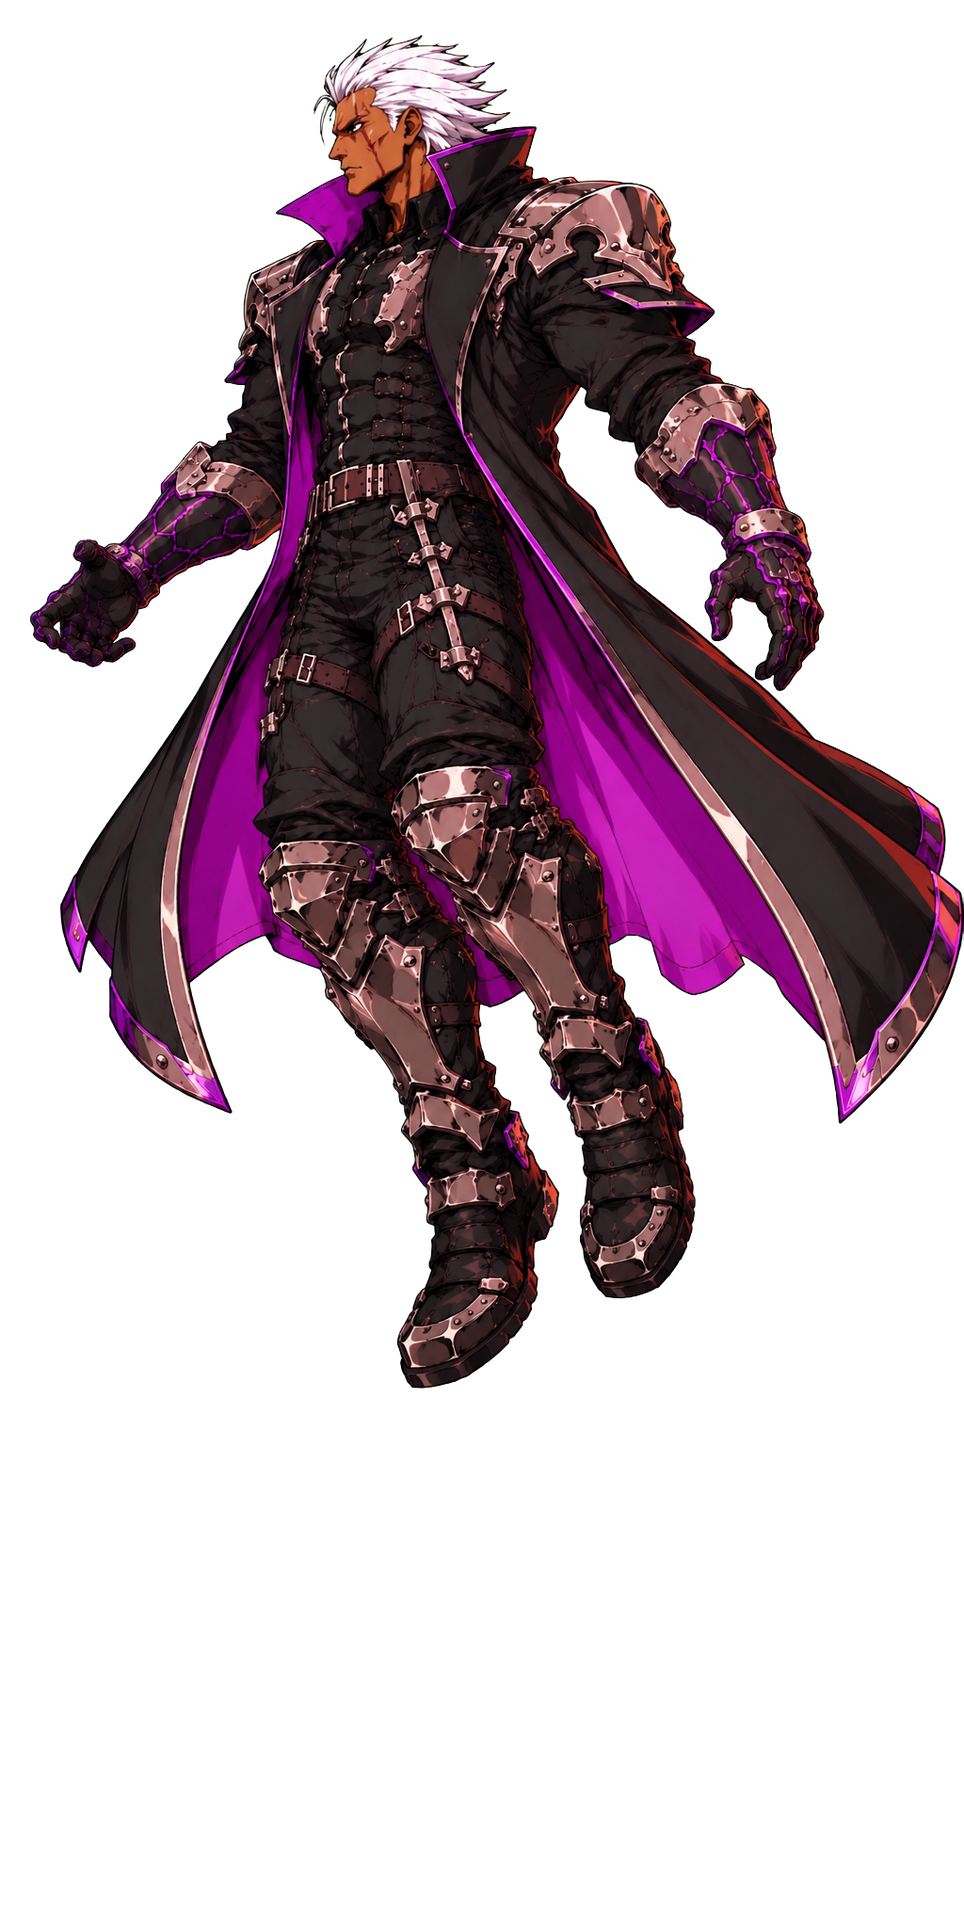
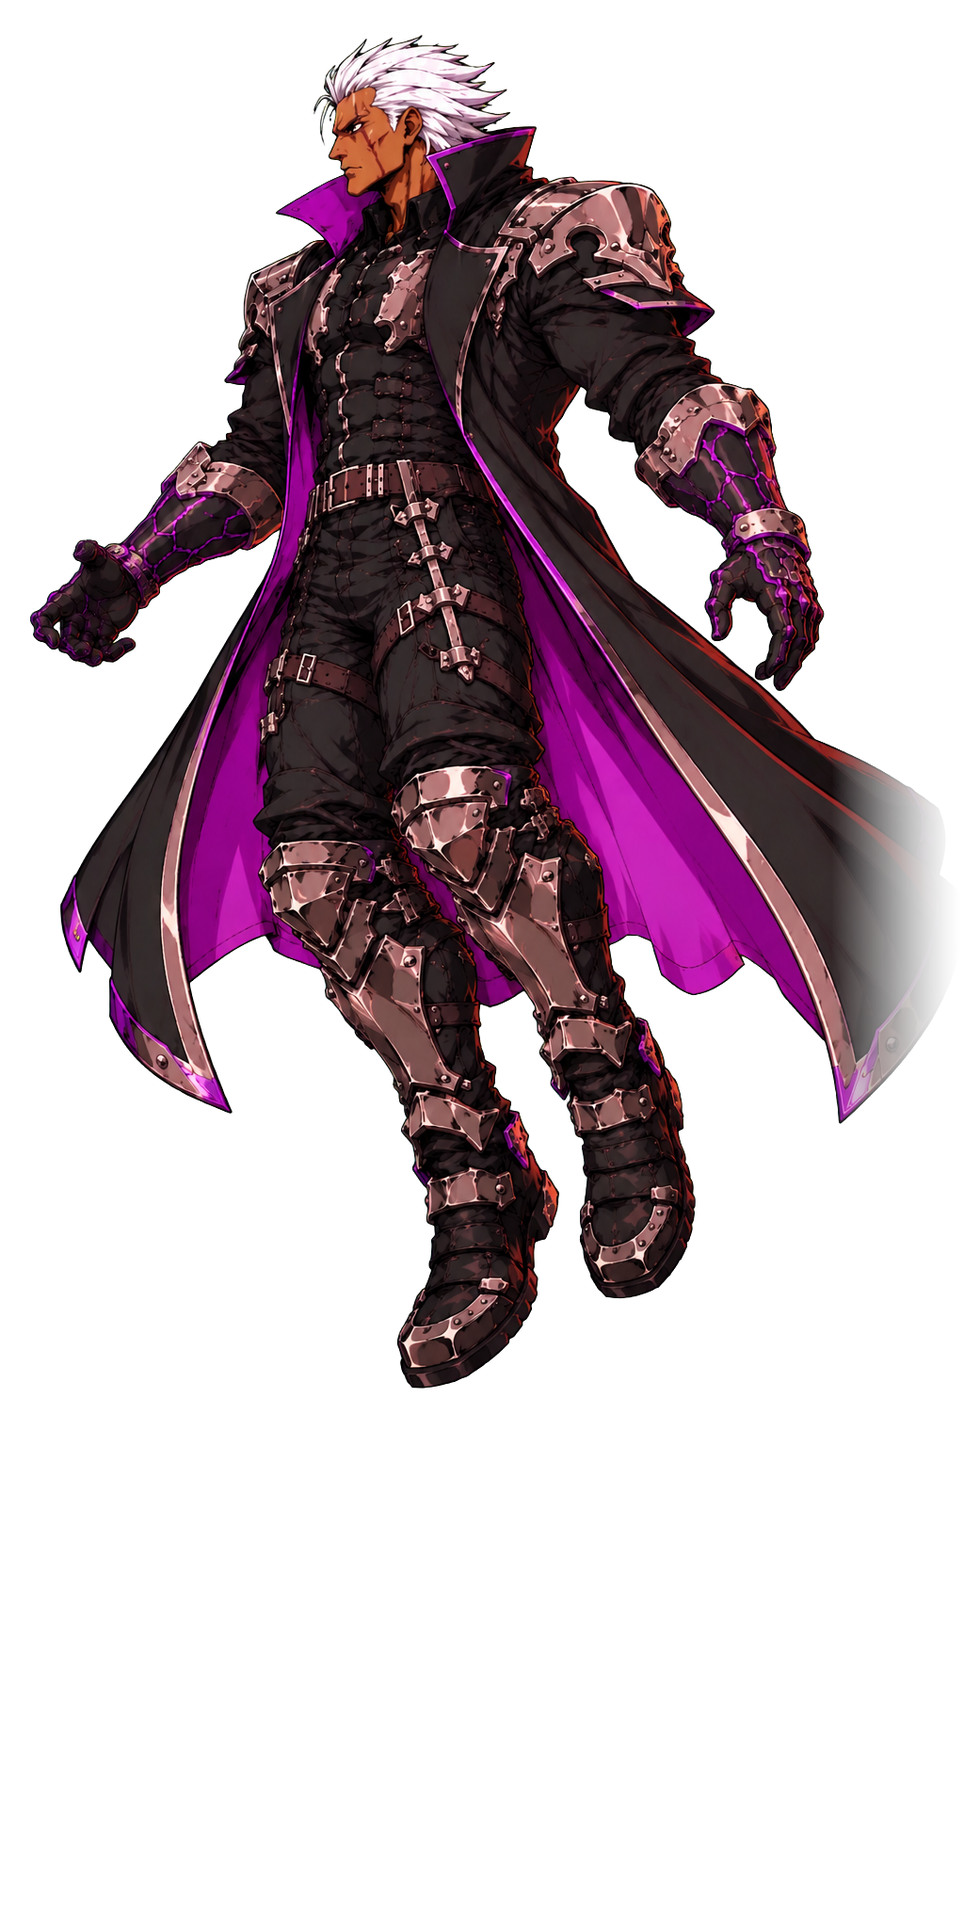
Lab : dash avant de l'adversaire en téléportation
Trois nouveaux dessins (rival-teleport-crouch, -streak, -rise) : il se baisse, s'efface
dans un trait de vitesse en laissant une image rémanente, réapparaît plus près de Moussa
et se relève. Deux appuis rapides sur ← quand on le contrôle. Les dessins coupés par le
bord droit de l'illustration sont estompés à la préparation.

Claude-Session: https://claude.ai/code/session_015fMRbsLJa9znv5DiAYkBLj

Changed region(s): [[0.875, 0.375, 1.0, 0.5938]]

diff --git a/lab/src/game/rival/RivalLayer.ts b/lab/src/game/rival/RivalLayer.ts
@@ -26,6 +26,10 @@ const POSES = {
   floatBack: { file: 'rival/float-back.webp', ground: [445, 1453], scale: 1.1 },
   // pose de passage : droite, en l'air, entre la garde et le vol, et entre l'avance et le recul
   floatStart: { file: 'rival/float-start.webp', ground: [450, 1474], scale: 1.1 },
+  // téléportation : baissé, effacé dans un trait de vitesse, puis relevé
+  teleportCrouch: { file: 'rival/teleport-crouch.webp', ground: [565, 1256], scale: 1.1 },
+  teleportStreak: { file: 'rival/teleport-streak.webp', ground: [565, 1221], scale: 1.1 },
+  teleportRise: { file: 'rival/teleport-rise.webp', ground: [545, 1434], scale: 1.1 },
   blockStep: { file: 'rival/block-step.webp', ground: [519, 1414], scale: 1.1 },
   block: { file: 'rival/block.webp', ground: [543, 1492], scale: 0.95 },
   hurt: { file: 'rival/hurt.webp', ground: [490, 1478], scale: 0.9 },
@@ -46,6 +50,30 @@ const BLOCK_STEP_SECONDS = 0.06
  * garde ; `lean` : inclinaison dans le sens du déplacement, à pleine vitesse.
  */
 const FLOAT = { forward: 0.2, back: 0.17, accel: 18, height: 14, bob: 4, period: 1.5, rise: 18, land: 16, ground: 0.12, lean: 0.035, bridge: 0.07 }
+/**
+ * Dash avant en téléportation, à la manière de Doom : il se baisse, s'efface dans un trait de vitesse, disparaît
+ * un instant et réapparaît `distance` plus loin (fraction de la largeur de l'écran, sans traverser Moussa), baissé,
+ * puis se relève. Les étapes dans l'ordre, avec leur durée en secondes ; `pose: null` : invisible, c'est là qu'il
+ * change de place. `ghost` : durée de l'image rémanente laissée au départ ; `min` : distance en dessous de laquelle
+ * il ne se téléporte pas (il est déjà contre Moussa).
+ */
+const TELEPORT = {
+  steps: [
+    { pose: 'teleportCrouch', seconds: 0.06 },
+    { pose: 'teleportStreak', seconds: 0.05 },
+    { pose: null, seconds: 0.06 },
+    { pose: 'teleportStreak', seconds: 0.05 },
+    { pose: 'teleportCrouch', seconds: 0.08 },
+    { pose: 'teleportRise', seconds: 0.1 },
+  ] as { pose: RivalPose | null; seconds: number }[],
+  distance: 0.22,
+  ghost: 0.25,
+  min: 0.02,
+  /** Marge gardée devant Moussa à l'arrivée : baissé, sa main dépasse en avant de sa garde. */
+  margin: 0.05,
+}
+const TELEPORT_VANISH = TELEPORT.steps[0].seconds + TELEPORT.steps[1].seconds
+const TELEPORT_TOTAL = TELEPORT.steps.reduce((sum, step) => sum + step.seconds, 0)
 type FloatPose = 'floatForward' | 'floatBack' | 'floatStart'
 const isFloatPose = (pose: RivalPose): pose is FloatPose => pose === 'floatForward' || pose === 'floatBack' || pose === 'floatStart'
 /** Les dessins du vol dans un sens. */
@@ -101,6 +129,11 @@ export class RivalLayer implements Opponent {
   private hover = 0
   /** Temps passé en l'air, pour le flottement. */
   private floatTime = 0
+  /** Temps écoulé depuis le début de la téléportation en cours, ou -1. */
+  private teleportTime = -1
+  /** Image rémanente laissée au départ de la téléportation : position et temps écoulé. */
+  private ghostX = 0
+  private ghostTime = Infinity
   /** Temps restant sur le dessin de passage, au décollage ou au changement de sens. */
   private bridgeLeft = 0
   private pose: RivalPose = 'guard'
@@ -146,6 +179,7 @@ export class RivalLayer implements Opponent {
     if (!guarded) {
       this.pose = 'hurt'
       this.hurtTime = 0
+      this.teleportTime = -1
       this.settle()
     }
     return guarded
@@ -155,6 +189,8 @@ export class RivalLayer implements Opponent {
   reset(): void {
     this.x = RivalLayer.START_X
     this.pose = 'guard'
+    this.teleportTime = -1
+    this.ghostTime = Infinity
     this.settle()
   }
 
@@ -174,9 +210,53 @@ export class RivalLayer implements Opponent {
 
   land(): void {}
 
+  /** Dash avant : il se téléporte vers Moussa. Possible seulement en garde ou en lévitation. */
+  teleport(): void {
+    if (this.teleportTime >= 0 || !(this.pose === 'guard' || isFloatPose(this.pose))) return
+    this.settle()
+    this.teleportTime = 0
+    this.pose = 'teleportCrouch'
+  }
+
+  /** Vrai pendant la téléportation, quand il n'est plus visible. */
+  private get vanished(): boolean {
+    return this.teleportTime >= 0 && this.teleportStep() === null
+  }
+
+  /** Le dessin de l'étape en cours de la téléportation, ou `null` quand il est invisible. */
+  private teleportStep(): RivalPose | null {
+    let end = 0
+    for (const step of TELEPORT.steps) {
+      end += step.seconds
+      if (this.teleportTime < end) return step.pose
+    }
+    return 'teleportRise'
+  }
+
   update(frame: FrameInfo): void {
+    this.ghostTime += frame.delta
+    if (this.teleportTime >= 0) {
+      const before = this.teleportTime
+      this.teleportTime += frame.delta
+      // il disparaît : il laisse une image rémanente et change de place
+      if (before < TELEPORT_VANISH && this.teleportTime >= TELEPORT_VANISH) {
+        this.ghostX = this.x
+        this.ghostTime = 0
+        const [min] = this.bounds(this.pixel(frame))
+        const stop = min + TELEPORT.margin
+        if (this.x - stop > TELEPORT.min) this.x = Math.max(stop, this.x - TELEPORT.distance)
+      }
+      if (this.teleportTime >= TELEPORT_TOTAL) {
+        this.teleportTime = -1
+        this.pose = 'guard'
+      } else {
+        this.pose = this.teleportStep() ?? this.pose
+      }
+    }
     // coup encaissé : le dessin du coup reçu, celui du retour, puis la garde
-    if (this.pose === 'hurt' || this.pose === 'hurtRecover') {
+    if (this.teleportTime >= 0) {
+      // rien d'autre pendant la téléportation
+    } else if (this.pose === 'hurt' || this.pose === 'hurtRecover') {
       this.hurtTime += frame.delta
       this.pose = this.hurtTime < HIT.stun ? 'hurt' : 'hurtRecover'
       if (this.hurtTime >= HIT.stun + HIT.recover) this.pose = 'guard'
@@ -298,7 +378,7 @@ export class RivalLayer implements Opponent {
     gl.vertexAttribPointer(flat.attribute, 2, gl.FLOAT, false, 0, 0)
     gl.uniform1f(flat.u.uShadow, 1)
     gl.uniform4f(flat.u.uRect, sx * 2 - 1, 1 - (sy - h * 0.006) * 2, h * 0.34 * shadow * (frame.height / frame.width), h * 0.033 * shadow)
-    gl.drawArrays(gl.TRIANGLE_STRIP, 0, 4)
+    if (!this.vanished) gl.drawArrays(gl.TRIANGLE_STRIP, 0, 4)
 
     gl.useProgram(layer.program)
     gl.enableVertexAttribArray(layer.attribute)
@@ -315,13 +395,13 @@ export class RivalLayer implements Opponent {
     gl.uniform2f(u.uAtlas, 0, 0)
 
     /** Dessine une pose avec son reflet, à l'opacité `alpha`. */
-    const drawPose = (name: RivalPose, alpha: number) => {
+    const drawPose = (name: RivalPose, alpha: number, at = sx, stretchX = 1) => {
       const pose = POSES[name]
       const [gx, gy] = pose.ground
       const scale = pose.scale
       const lift = this.lift(name, amplitude)
       // le point posé au sol reste en (gx, gy) dans la toile : l'agrandissement et l'inclinaison se font autour de lui
-      const left = sx - gx * unitX
+      const left = at - gx * unitX * stretchX
       const top = sy - (gy + lift) * unitY
       gl.bindTexture(gl.TEXTURE_2D, this.textures[name] ?? null)
       // il respire en s'étirant depuis le sol, penche en arrière quand il encaisse et, en vol, dans le sens du déplacement
@@ -333,13 +413,19 @@ export class RivalLayer implements Opponent {
       // reflet sur le sol mouillé : le même dessin, retourné et écrasé sous ses pieds, plus pâle quand il vole
       const mirror = unitY * REFLECTION.squash
       gl.uniform1f(u.uAlpha, REFLECTION.alpha * alpha * (1 - 0.4 * (lift / FLOAT.height)))
-      gl.uniform4f(u.uView, 2 * unitX, 2 * mirror, 2 * left - 1, 1 - 2 * sy - 2 * (gy + lift) * mirror)
+      gl.uniform4f(u.uView, 2 * unitX * stretchX, 2 * mirror, 2 * left - 1, 1 - 2 * sy - 2 * (gy + lift) * mirror)
       gl.drawArrays(gl.TRIANGLE_STRIP, 0, 4)
       gl.uniform1f(u.uAlpha, alpha)
-      gl.uniform4f(u.uView, 2 * unitX, -2 * unitY, 2 * left - 1, 1 - 2 * top)
+      gl.uniform4f(u.uView, 2 * unitX * stretchX, -2 * unitY, 2 * left - 1, 1 - 2 * top)
       gl.drawArrays(gl.TRIANGLE_STRIP, 0, 4)
     }
 
-    drawPose(this.pose, 1)
+    // image rémanente de la téléportation : le trait de vitesse, qui s'étire vers l'arrière et s'efface
+    const ghost = this.ghostTime / TELEPORT.ghost
+    if (ghost < 1 && !calm) {
+      const at = (this.ghostX + PLACEMENT.depth * camera.ox - 0.5) * camera.zoom + 0.5
+      drawPose('teleportStreak', 0.7 * (1 - ghost) ** 2, at, 1 + 0.5 * ghost)
+    }
+    if (!this.vanished) drawPose(this.pose, 1)
   }
 }

diff --git a/lab/src/App.tsx b/lab/src/App.tsx
@@ -52,6 +52,9 @@ function App() {
   const [rivalControl, setRivalControl] = useState(false)
   const [rivalWalk, setRivalWalk] = useState(0)
   const [rivalBlock, setRivalBlock] = useState(false)
+  const [rivalDash, setRivalDash] = useState(0)
+  /** Dernier appui sur ← pour l'adversaire : deux appuis rapprochés le téléportent. */
+  const rivalTap = useRef(0)
   const lastTap = useRef({ direction: 0, at: 0 })
   const [note, setNote] = useState('Bouge la souris sur le décor pour sentir la profondeur.')
 
@@ -105,6 +108,15 @@ function App() {
         if ((target instanceof HTMLInputElement && target.type !== 'checkbox') || target instanceof HTMLTextAreaElement) return
         event.preventDefault()
         if (key === 'arrowup') return
+        // deux appuis rapides sur ← : dash avant, il se téléporte vers Moussa
+        if (key === 'arrowleft' && !event.repeat) {
+          if (event.timeStamp - rivalTap.current < DOUBLE_TAP_MS) {
+            setRivalDash((count) => count + 1)
+            rivalTap.current = 0
+          } else {
+            rivalTap.current = event.timeStamp
+          }
+        }
         rivalHeld.add(key)
         syncRival()
         return
@@ -164,7 +176,7 @@ function App() {
   return (
     <main className="mx-auto flex max-w-[1500px] flex-col gap-3.5 px-4 pt-4 pb-8">
       <h1 className="sr-only">Moussa Sagna, développeur frontend</h1>
-      <StageScreen options={options} introKey={introKey} walk={walk} crouch={crouch} block={block} rivalWalk={rivalWalk} rivalBlock={rivalBlock} dash={dash} jump={jump} attack={attack} special={special} special2={special2} endRound={endRound} knockOut={knockOut} dummyAttack={dummyAttack} onUnavailable={onUnavailable} />
+      <StageScreen options={options} introKey={introKey} walk={walk} crouch={crouch} block={block} rivalWalk={rivalWalk} rivalBlock={rivalBlock} rivalDash={rivalDash} dash={dash} jump={jump} attack={attack} special={special} special2={special2} endRound={endRound} knockOut={knockOut} dummyAttack={dummyAttack} onUnavailable={onUnavailable} />
 
       <div className="flex flex-wrap items-center gap-x-5 gap-y-2 text-muted">
         <button
@@ -219,7 +231,7 @@ function App() {
       </p>
       {rivalControl && (
         <p className="m-0 text-[15px] text-line">
-          Tu contrôles l'adversaire avec les flèches : maintiens <kbd className="border border-[#3a3145] bg-panel px-1.5 text-line">←</kbd> pour avancer vers Moussa, 
+          Tu contrôles l'adversaire avec les flèches : maintiens <kbd className="border border-[#3a3145] bg-panel px-1.5 text-line">←</kbd> pour avancer vers Moussa (deux appuis rapides : il se téléporte),{' '}
           <kbd className="border border-[#3a3145] bg-panel px-1.5 text-line">→</kbd> pour reculer et <kbd className="border border-[#3a3145] bg-panel px-1.5 text-line">↓</kbd> pour parer. Il n'a pas encore
           d'attaque. Moussa se joue alors avec <kbd className="border border-[#3a3145] bg-panel px-1.5 text-line">Q</kbd> <kbd className="border border-[#3a3145] bg-panel px-1.5 text-line">D</kbd>, <kbd className="border border-[#3a3145] bg-panel px-1.5 text-line">S</kbd>, <kbd className="border border-[#3a3145] bg-panel px-1.5 text-line">Z</kbd>, 
           <kbd className="border border-[#3a3145] bg-panel px-1.5 text-line">Espace</kbd> et les touches d'attaque.

diff --git a/lab/src/components/StageScreen.tsx b/lab/src/components/StageScreen.tsx
@@ -20,6 +20,8 @@ interface Props {
   /** Adversaire contrôlé par le joueur : déplacement (-1 vers Moussa, 1 en s'éloignant, 0 à l'arrêt) et parade. */
   rivalWalk: number
   rivalBlock: boolean
+  /** Change de valeur à chaque dash avant demandé pour l'adversaire contrôlé (il se téléporte). */
+  rivalDash: number
   /** Dash demandé : `id` change à chaque demande, `direction` vaut 1 ou -1. */
   dash: { id: number; direction: number }
   /** Change de valeur à chaque saut demandé. */
@@ -40,7 +42,7 @@ interface Props {
 }
 
 /** L'écran du stage : décor animé, personnage en garde, météo et carton de titre. */
-export function StageScreen({ options, introKey, walk, crouch, block, rivalWalk, rivalBlock, dash, jump, attack, special, special2, knockOut, endRound, dummyAttack, onUnavailable }: Props) {
+export function StageScreen({ options, introKey, walk, crouch, block, rivalWalk, rivalBlock, rivalDash, dash, jump, attack, special, special2, knockOut, endRound, dummyAttack, onUnavailable }: Props) {
   const root = useRef<HTMLDivElement>(null)
   const backdrop = useRef<HTMLCanvasElement>(null)
   const dummy = useRef<HTMLCanvasElement>(null)
@@ -101,6 +103,10 @@ export function StageScreen({ options, introKey, walk, crouch, block, rivalWalk,
   useEffect(() => {
     if (engine.current) engine.current.rivalBlock = rivalBlock
   }, [rivalBlock])
+
+  useEffect(() => {
+    if (rivalDash > 0) engine.current?.rivalDash()
+  }, [rivalDash])
 
   useEffect(() => {
     if (dash.id > 0) engine.current?.dash(dash.direction)

diff --git a/lab/src/game/stage/StageEngine.ts b/lab/src/game/stage/StageEngine.ts
@@ -131,6 +131,11 @@ export class StageEngine {
     return this.options.opponent === 'rival' ? this.rival : this.dummy
   }
 
+  /** Dash avant de l'adversaire contrôlé par le joueur : il se téléporte vers le personnage. */
+  rivalDash(): void {
+    if (!this.cinematic.locked && this.options.rivalControl === true) this.rival.teleport()
+  }
+
   /** Lance la seconde attaque spéciale du personnage, la frappe au sol. */
   groundSpecial(): void {
     if (!this.cinematic.locked) this.hero.groundSpecial()

diff --git a/lab/tools/prepare_rival.py b/lab/tools/prepare_rival.py
@@ -11,6 +11,8 @@ from PIL import Image
 from prepare_poses import ART, H, ROOT, W, key_green
 
 OUT = ROOT / 'public' / 'assets' / 'rival'
+# largeur, en pixels, de l'estompage d'un dessin coupé par le bord droit de l'illustration
+EDGE_FADE = 140
 
 
 def main() -> None:
@@ -19,6 +21,12 @@ def main() -> None:
         rgb = np.asarray(Image.open(path).convert('RGB')).copy()
         assert rgb.shape[:2] == (H, W), path.name
         art = key_green(rgb)
+        # dessin coupé par le bord droit de l'illustration (traits de vitesse, pan du manteau) : on l'estompe
+        # sur les dernières colonnes, pour qu'il ne s'arrête pas sur une ligne droite
+        if (art[:, -1, 3] > 128).sum() > 20:
+            ramp = np.clip(np.arange(W)[::-1] / EDGE_FADE, 0, 1) ** 1.5
+            art[..., 3] = (art[..., 3] * ramp[None, :]).astype(np.uint8)
+            art[..., :3] = (art[..., :3] * ramp[None, :, None]).astype(np.uint8)
         art[art[..., 3] == 0] = 0
         # côtés en puissances de deux, pour les mipmaps
         atlas = np.zeros((2048, W, 4), np.uint8)
@@ -30,7 +38,9 @@ def main() -> None:
         low = np.where(solid[ys.max() - 150:].any(axis=0))[0]
         print(f'{name} : x {xs.min()}-{xs.max()}, y {ys.min()}-{ys.max()}, appuis x {low.min()}-{low.max()}')
         for y in range(300, 1300, 100):
-            print(f'    y {y} : bord gauche {np.where(solid[y])[0].min()}')
+            # une pose baissée n'a rien sur les premières lignes
+            if solid[y].any():
+                print(f'    y {y} : bord gauche {np.where(solid[y])[0].min()}')
 
 
 if __name__ == '__main__':

diff --git a/lab/docs/ARCHITECTURE.md b/lab/docs/ARCHITECTURE.md
@@ -193,6 +193,8 @@ Au repos, le dessin est coupé en deux rectangles : le socle, immobile, et le bu
 
 **Son déplacement** est une lévitation (`FLOAT`, `float`) : il ne marche pas, il s'élève légèrement et glisse. Un seul dessin par sens (`floatForward` penché vers l'avant pour avancer, `floatBack` droit pour reculer), animé en continu par le moteur : accélération et freinage en douceur, montée à `FLOAT.height` (il rase le sol), flottement sinusoïdal, inclinaison dans le sens du déplacement, ombre qui rétrécit et reflet qui pâlit. Il se repose en garde à l'arrêt. Au décollage, au changement de sens et pendant qu'il se repose, un dessin de passage (`floatStart`, droit, en l'air) s'affiche `FLOAT.bridge` secondes ; les dessins s'enchaînent sans fondu (un fondu rendait le personnage transparent un instant). Démarrage et arrêt sont rapides (`accel`, `rise`, `land`). Ces dessins sont calés sur le ceinturon de la garde, pour que le buste ne saute pas. Une première version en pas chassés, à quatre dessins qui alternaient, a été abandonnée : elle saccadait.
 
+**Son dash avant** est une téléportation (`TELEPORT`, `teleport`), à la manière de Doom : il se baisse (`teleportCrouch`), s'efface dans un trait de vitesse (`teleportStreak`), disparaît un instant en laissant une image rémanente qui s'étire et s'estompe, réapparaît `TELEPORT.distance` plus loin (sans traverser Moussa, avec une marge, car baissé sa main dépasse), dans le trait de vitesse puis baissé, et se relève (`teleportRise`). Un coup l'interrompt. Pour l'instant, seul le joueur qui le contrôle peut le déclencher (deux appuis rapides sur ←).
+
 **Son comportement** (case « L'adversaire se déplace », `options.rivalMoves`) : il garde Moussa entre deux distances (`RANGE`, en plus de sa distance minimale `gap`). Trop loin, il avance ; trop près, il recule, sans dépasser `RANGE.maxX`. Il marche jusqu'au milieu de l'intervalle avant de s'arrêter. Il ne bouge pas avant le « Fight », ni en parade, et revient à sa place à chaque nouveau round (`reset`). `StageEngine` lui transmet la position de Moussa (`heroX`) à chaque image.
 
 Tant que `options.rivalBlocks` est vrai (case « L'adversaire pare »), il passe en parade par un dessin de passage. Un coup ou une boule de feu qui l'atteint en parade est paré : `Opponent.hit` retourne vrai, l'étincelle est bleue, l'arrêt sur image deux fois plus court, la secousse plus faible et il penche à peine. Un coup paré permet quand même de poursuivre l'enchaînement, comme un coup porté.

diff --git a/lab/docs/ASSETS.md b/lab/docs/ASSETS.md
@@ -74,7 +74,7 @@ python3 tools/prepare_rival.py
 
 Le script lit tous les `../art/rival-*.png` (personnage tourné vers la gauche, mêmes contraintes que les poses du personnage), retire le fond vert et écrit une image par pose dans `public/assets/rival/`. Il affiche aussi l'étendue des appuis et le bord avant du corps, qui servent à régler le point posé au sol, `surface` et `gap` dans `src/game/rival/RivalLayer.ts`.
 
-Pour la lévitation, `rival-float-forward.png` (penché vers l'avant, pour avancer) et `rival-float-back.png` (droit, pour reculer) et `rival-float-start.png` (pose de passage, droite, en l'air) : leur point `ground` dans `POSES` est pris sous le ceinturon, à la même place que dans la garde, et à hauteur du bas de la botte la plus basse.
+Pour la lévitation, `rival-float-forward.png` (penché vers l'avant, pour avancer) et `rival-float-back.png` (droit, pour reculer) et `rival-float-start.png` (pose de passage, droite, en l'air). Pour la téléportation : `rival-teleport-crouch.png`, `rival-teleport-streak.png` (le même, dans un trait de vitesse) et `rival-teleport-rise.png`. `tools/prepare_rival.py` estompe les dessins coupés par le bord droit de l'illustration (`EDGE_FADE`) : leur point `ground` dans `POSES` est pris sous le ceinturon, à la même place que dans la garde, et à hauteur du bas de la botte la plus basse.
 
 ## Décor : `tools/prepare_stage.py`
 

diff --git a/docs/ETAT-DU-PROJET.md b/docs/ETAT-DU-PROJET.md
@@ -36,7 +36,7 @@ Toute nouvelle pose demande aussi une échelle dans `POSE_SCALE` (`lab/src/game/
 
 ## Ce que fait le lab aujourd'hui
 
-Touches : flèches ou ZQSD, J attaque, L boule de feu, I attaque spéciale au sol, O K.O., P fin de round, K le mannequin attaque, Échap passe l'intro. Plus de boutons sous la scène. La case « Contrôler l'adversaire » donne les flèches à l'adversaire (← avance, → recule, ↓ pare) ; Moussa se joue alors avec Q D, S, Z, Espace et les touches d'attaque.
+Touches : flèches ou ZQSD, J attaque, L boule de feu, I attaque spéciale au sol, O K.O., P fin de round, K le mannequin attaque, Échap passe l'intro. Plus de boutons sous la scène. La case « Contrôler l'adversaire » donne les flèches à l'adversaire (← avance, deux appuis rapides sur ← le téléportent, → recule, ↓ pare) ; Moussa se joue alors avec Q D, S, Z, Espace et les touches d'attaque.
 
 - Stage Tokyo Underground animé (pluie, pétales, néons, reflets).
 - Cinématique d'entrée en six plans (Moussa puis l'adversaire), « Face your destiny », « Round 1 », « Fight! ».

diff --git a/lab/docs/ROADMAP.md b/lab/docs/ROADMAP.md
@@ -20,6 +20,7 @@
 - [x] Adversaire : nouvelle garde aux proportions de Moussa.
 - [x] Adversaire : déplacement en lévitation, avant et arrière (un dessin par sens, animé en continu), et un premier comportement (il garde ses distances). Remplace la marche en pas chassés, trop saccadée.
 - [x] Adversaire contrôlable par un second joueur, aux flèches : il se déplace en lévitation et pare.
+- [x] Adversaire : dash avant en téléportation (deux appuis rapides sur ←), à la manière de Doom.
 - [x] Plus de boutons sous la scène : tout se joue au clavier.
 - [ ] Adversaire : dashs, coup, recul quand il encaisse ; parade et coup encaissé à refaire au nouveau modèle.
 - [x] Seconde attaque spéciale : mise au point figée sur le personnage, ruée, rafale de dix coups au hasard et trois coups lourds, un effet à chaque impact, puis frappe au sol, avec décor assombri, plan de coupe sur le gros plan de Moussa et effets dessinés (remplace la rafale de coups de pied) (à juger en mouvement).
